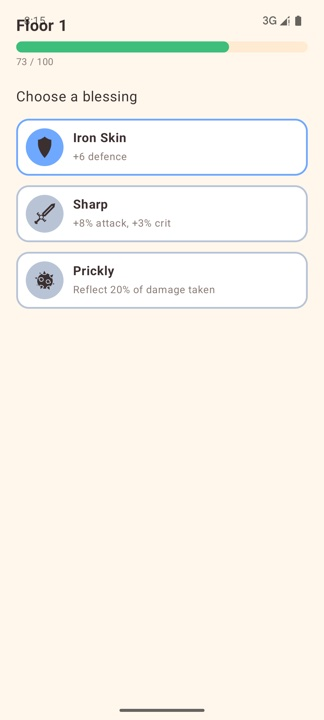
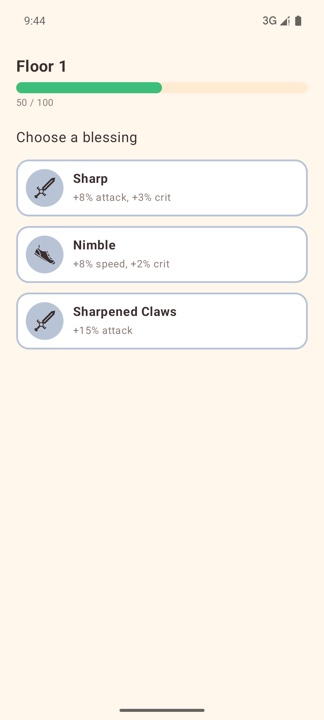
fix: recapture blessing screenshot and align studio card action rows
Regenerate pawsandperils/img/phone-3-blessing.{jpg,webp} from the
inset-fixed store screenshot, and shorten the Paws & Perils "Coming
soon" placeholder so both studio cards keep their Play button and
About link on a single row at desktop widths, matching Blockfall's
.actions flex-wrap behavior.

Changed region(s): [[0.0309, 0.0, 0.9568, 0.4889]]

diff --git a/index.html b/index.html
@@ -107,7 +107,7 @@
           </p>
 
           <div class="actions">
-            <span class="btn btn-soon" aria-disabled="true">Coming soon to Google Play</span>
+            <span class="btn btn-soon" aria-disabled="true">Coming soon</span>
             <a class="btn btn-secondary" href="/pawsandperils/">About Paws &amp; Perils</a>
           </div>
         </div>
